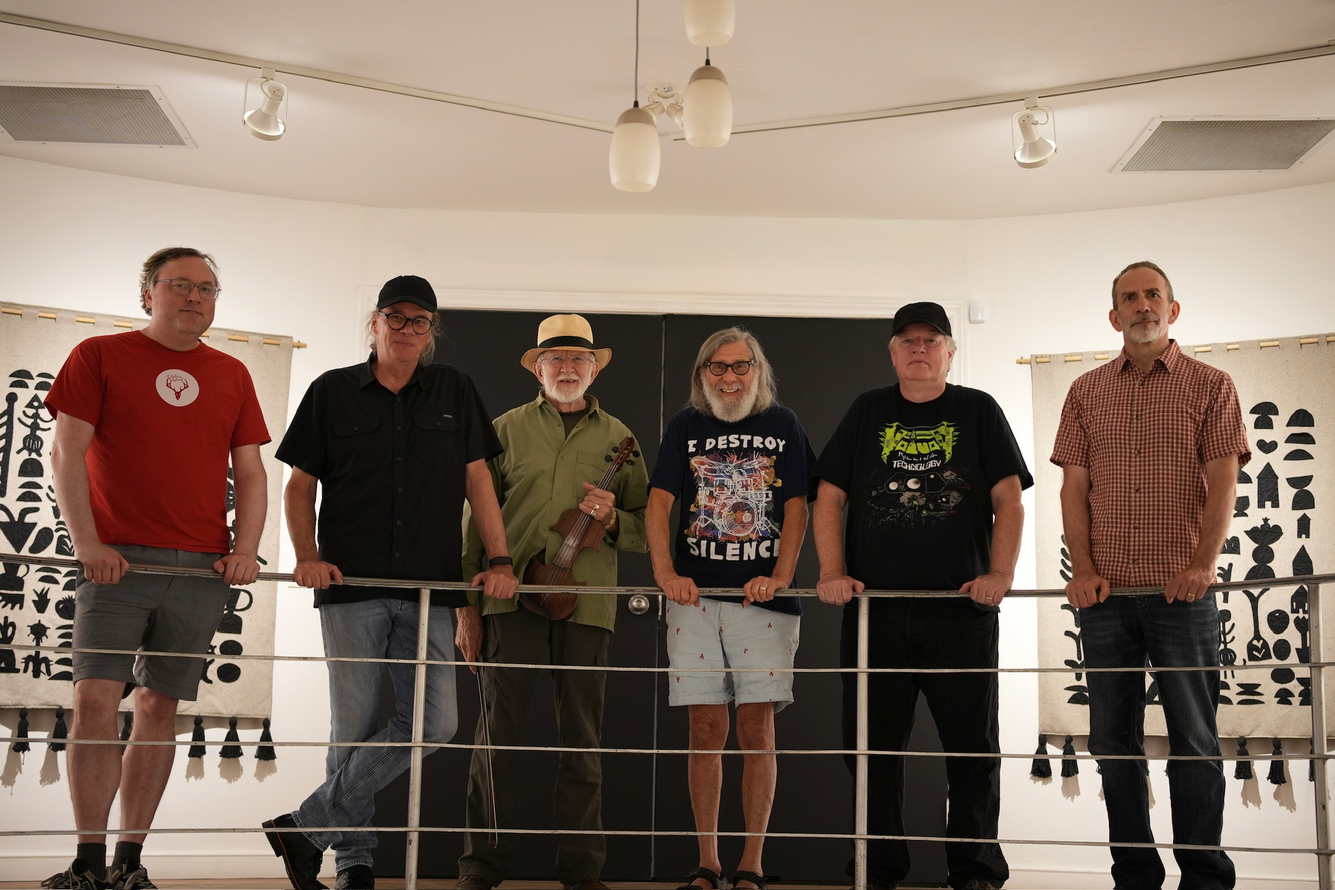
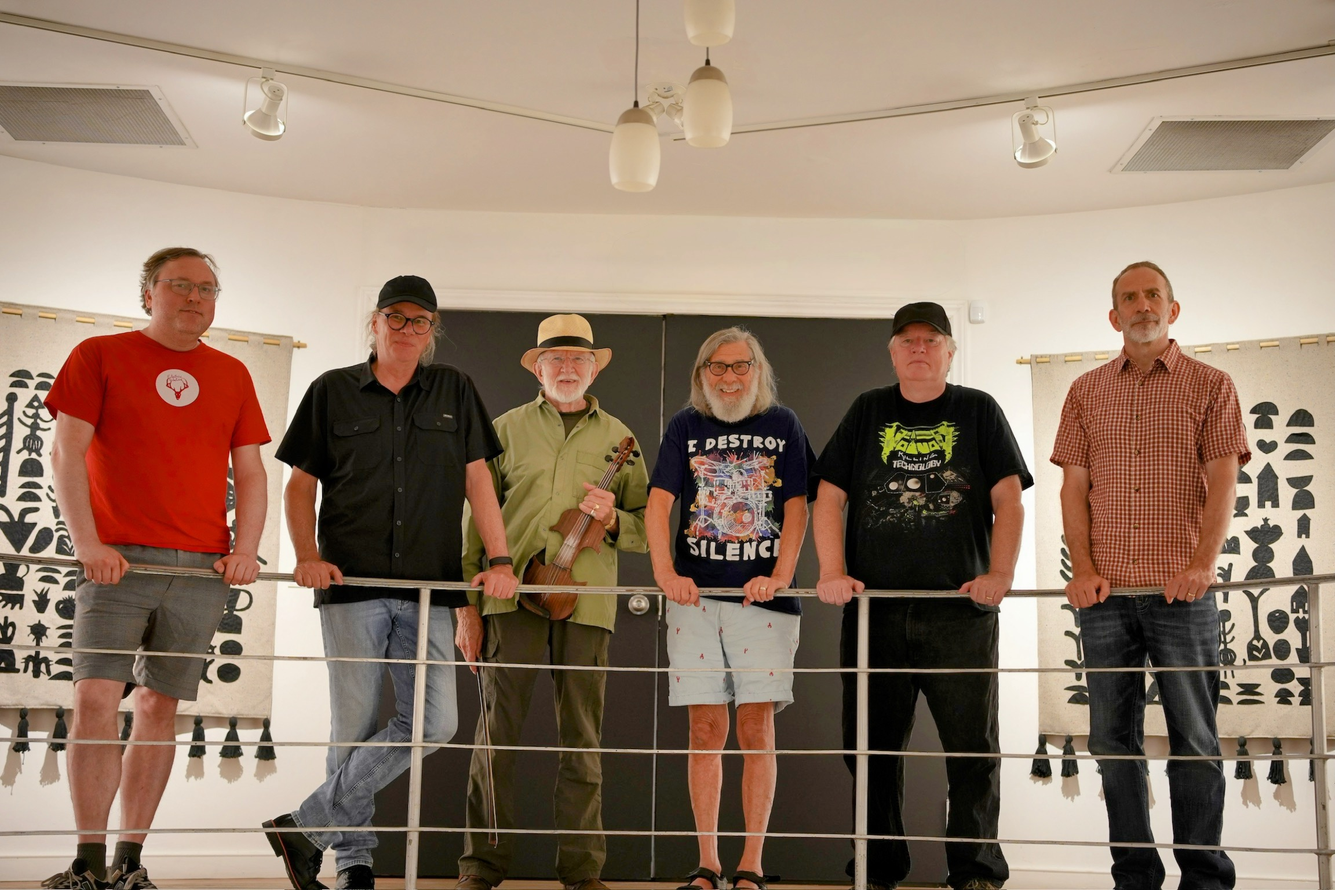
brightened the faces

diff --git a/templates/base.html b/templates/base.html
@@ -48,7 +48,8 @@
       <div class="container">
         <span class="navbar-brand">Magic Daffodils</span>
        <!-- Navbar toggler button for responsive collapse -->
-       <button class="navbar-toggler" type="button" data-bs-toggle="collapse" data-bs-target="#navbarNavAltMarkup" aria-controls="navbarNavAltMarkup" aria-expanded="false" aria-label="Toggle navigation">
+       <button class="navbar-toggler" type="button" data-bs-toggle="collapse" data-bs-target="#navbarNavAltMarkup" 
+       aria-controls="navbarNavAltMarkup" aria-expanded="false" aria-label="Toggle navigation">
          <span class="navbar-toggler-icon"></span>
        </button>
         <div class="navbar-text collapse navbar-collapse" id="navbarNavAltMarkup">
